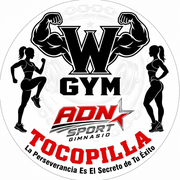
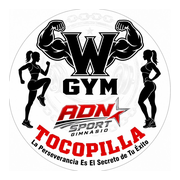
Que el icono no se recorte, y los nombres de las apps en mayusculas
La W negra que salia al instalar era el propio logo: el telefono le recorta
las esquinas al icono y, como el logo llenaba todo el cuadro, ese recorte se
comia el borde donde dice TOCOPILLA y dejaba a la vista solo la W del
centro. Se comprobo simulando el recorte sobre cada icono.

Ahora todos los iconos llevan el logo mas chico y centrado sobre blanco, con
margen suficiente para que el recorte caiga fuera del logo: al 78% los
normales y al 62% los "maskable", que son los que Android recorta seguro.
Se agrega ademas el maskable de 192, que faltaba.

Los archivos y el manifest llevan ?v=3 al final para que el telefono los
baje de nuevo en vez de reusar los que ya tenia guardados, que es la razon
por la que el arreglo anterior no se veia.

tarjeta.html ahora tambien se puede instalar, cosa que antes no. Al bajarla
queda como TARJETA VIRTUAL WGYMADNSPORT, tal como lo pidio la duena, y los
nombres de las otras cuatro apps quedan igual en mayusculas: MESON WGYM,
RUTINA MUJERES, RUTINA HOMBRES y RUTINA GLUTEOS.

Claude-Session: https://claude.ai/code/session_01NWwv9fLaGzq6PxeRAqUp3e

diff --git a/control.html b/control.html
@@ -3,11 +3,11 @@
 <meta name="description" content="Control de acceso y socios de WGYMADNSPORT Tocopilla.">
 <meta name="viewport" content="width=device-width, initial-scale=1, viewport-fit=cover">
 <meta name="theme-color" content="#0A0A0A">
-<link rel="manifest" href="control.webmanifest">
-<link rel="apple-touch-icon" sizes="180x180" href="assets/icono-180.png">
+<link rel="manifest" href="control.webmanifest?v=3">
+<link rel="apple-touch-icon" sizes="180x180" href="assets/icono-180.png?v=3">
 <meta name="apple-mobile-web-app-capable" content="yes">
 <meta name="apple-mobile-web-app-status-bar-style" content="black">
-<meta name="apple-mobile-web-app-title" content="Mesón WGYM">
+<meta name="apple-mobile-web-app-title" content="MESÓN WGYM">
 <style>
 :root{
  --negro:#0A0A0A; --surface:#161616; --surface-2:#1F1F1F; --card:#1c1c1c;

diff --git a/entrenar-gluteos.html b/entrenar-gluteos.html
@@ -8,11 +8,11 @@
 <title>Rutina Enfocada en Glúteos · 5 días · WGYMADNSPORT</title>
 
 <!-- Para que al agregarla a la pantalla de inicio se vea como una app -->
-<link rel="manifest" href="entrenar-gluteos.webmanifest">
-<link rel="apple-touch-icon" sizes="180x180" href="assets/icono-180.png">
+<link rel="manifest" href="entrenar-gluteos.webmanifest?v=3">
+<link rel="apple-touch-icon" sizes="180x180" href="assets/icono-180.png?v=3">
 <meta name="apple-mobile-web-app-capable" content="yes">
 <meta name="apple-mobile-web-app-status-bar-style" content="black">
-<meta name="apple-mobile-web-app-title" content="Rutina Glúteos">
+<meta name="apple-mobile-web-app-title" content="RUTINA GLÚTEOS">
 
 <link rel="preconnect" href="https://fonts.googleapis.com">
 <link rel="preconnect" href="https://fonts.gstatic.com" crossorigin>

diff --git a/entrenar-mujeres.html b/entrenar-mujeres.html
@@ -8,11 +8,11 @@
 <title>Rutina Principiante Mujeres · 5 días · WGYMADNSPORT</title>
 
 <!-- Para que al agregarla a la pantalla de inicio se vea como una app -->
-<link rel="manifest" href="entrenar-mujeres.webmanifest">
-<link rel="apple-touch-icon" sizes="180x180" href="assets/icono-180.png">
+<link rel="manifest" href="entrenar-mujeres.webmanifest?v=3">
+<link rel="apple-touch-icon" sizes="180x180" href="assets/icono-180.png?v=3">
 <meta name="apple-mobile-web-app-capable" content="yes">
 <meta name="apple-mobile-web-app-status-bar-style" content="black">
-<meta name="apple-mobile-web-app-title" content="Rutina Mujeres">
+<meta name="apple-mobile-web-app-title" content="RUTINA MUJERES">
 
 <link rel="preconnect" href="https://fonts.googleapis.com">
 <link rel="preconnect" href="https://fonts.gstatic.com" crossorigin>

diff --git a/entrenar-hombres.html b/entrenar-hombres.html
@@ -8,11 +8,11 @@
 <title>Rutina Intermedio Hombres · 5 días · WGYMADNSPORT</title>
 
 <!-- Para que al agregarla a la pantalla de inicio se vea como una app -->
-<link rel="manifest" href="entrenar-hombres.webmanifest">
-<link rel="apple-touch-icon" sizes="180x180" href="assets/icono-180.png">
+<link rel="manifest" href="entrenar-hombres.webmanifest?v=3">
+<link rel="apple-touch-icon" sizes="180x180" href="assets/icono-180.png?v=3">
 <meta name="apple-mobile-web-app-capable" content="yes">
 <meta name="apple-mobile-web-app-status-bar-style" content="black">
-<meta name="apple-mobile-web-app-title" content="Rutina Hombres">
+<meta name="apple-mobile-web-app-title" content="RUTINA HOMBRES">
 
 <link rel="preconnect" href="https://fonts.googleapis.com">
 <link rel="preconnect" href="https://fonts.gstatic.com" crossorigin>

diff --git a/tarjeta.html b/tarjeta.html
@@ -1,6 +1,13 @@
 <meta charset="utf-8">
 <title>WGYMADNSPORT · Socios y Rutinas</title>  
 <meta name="description" content="Acceso de socios, rutinas de entrenamiento y gestión de WGYMADNSPORT Tocopilla.">  
+<meta name="viewport" content="width=device-width, initial-scale=1, viewport-fit=cover">
+<meta name="theme-color" content="#0A0A0A">
+<link rel="manifest" href="tarjeta.webmanifest?v=3">
+<link rel="apple-touch-icon" sizes="180x180" href="assets/icono-180.png?v=3">
+<meta name="apple-mobile-web-app-capable" content="yes">
+<meta name="apple-mobile-web-app-status-bar-style" content="black">
+<meta name="apple-mobile-web-app-title" content="TARJETA VIRTUAL">
 <style>  
 :root{  
  --negro:#0A0A0A;  

diff --git a/herramientas/base-app.html b/herramientas/base-app.html
@@ -8,8 +8,8 @@
 <title>Mi Entrenamiento · WGYMADNSPORT</title>
 
 <!-- Para que al agregarla a la pantalla de inicio se vea como una app -->
-<link rel="manifest" href="entrenar.webmanifest">
-<link rel="apple-touch-icon" sizes="180x180" href="assets/icono-180.png">
+<link rel="manifest" href="entrenar.webmanifest?v=3">
+<link rel="apple-touch-icon" sizes="180x180" href="assets/icono-180.png?v=3">
 <meta name="apple-mobile-web-app-capable" content="yes">
 <meta name="apple-mobile-web-app-status-bar-style" content="black">
 <meta name="apple-mobile-web-app-title" content="Mi Entrenamiento">

diff --git a/entrenar.html b/entrenar.html
@@ -6,7 +6,7 @@
 <meta name="theme-color" content="#0A0A0A">
 <meta name="robots" content="noindex">
 <title>Entra con tu QR · WGYMADNSPORT</title>
-<link rel="apple-touch-icon" sizes="180x180" href="assets/icono-180.png">
+<link rel="apple-touch-icon" sizes="180x180" href="assets/icono-180.png?v=3">
 <link rel="preconnect" href="https://fonts.googleapis.com">
 <link rel="preconnect" href="https://fonts.gstatic.com" crossorigin>
 <link rel="stylesheet" href="https://fonts.googleapis.com/css2?family=Anton&family=Barlow+Condensed:wght@600;700&family=Barlow:wght@400;600;700&display=swap">

diff --git a/herramientas/generar-apps-rutina.py b/herramientas/generar-apps-rutina.py
@@ -262,10 +262,10 @@ def una_app(clave, cfg, base, socios):
     # ── nombre de la app en la pestaña, en el icono y en el encabezado
     uno("<title>Mi Entrenamiento · WGYMADNSPORT</title>",
         "<title>%s · WGYMADNSPORT</title>" % cfg["titulo"])
-    uno('<link rel="manifest" href="entrenar.webmanifest">',
-        '<link rel="manifest" href="entrenar-%s.webmanifest">' % clave)
+    uno('<link rel="manifest" href="entrenar.webmanifest?v=3">',
+        '<link rel="manifest" href="entrenar-%s.webmanifest?v=3">' % clave)
     uno('<meta name="apple-mobile-web-app-title" content="Mi Entrenamiento">',
-        '<meta name="apple-mobile-web-app-title" content="%s">' % cfg["corto"])
+        '<meta name="apple-mobile-web-app-title" content="%s">' % cfg["corto"].upper())
     uno("<h2>MI <span>ENTRENAMIENTO</span></h2>",
         "<h2>%s <span>%s</span></h2>" % (cfg["marca1"], cfg["marca2"]))
     uno("<h1>MI <span>ENTRENAMIENTO</span></h1>",
@@ -362,8 +362,10 @@ def una_app(clave, cfg, base, socios):
 
 def manifest(clave, cfg):
     return json.dumps({
-        "name": cfg["titulo"] + " · WGYMADNSPORT",
-        "short_name": cfg["corto"],
+        # En mayusculas porque asi lo pidio la duena: es como se lee debajo
+        # del icono en la pantalla de inicio del telefono.
+        "name": (cfg["titulo"].split(" · ")[0] + " · WGYMADNSPORT").upper(),
+        "short_name": cfg["corto"].upper(),
         "description": cfg["titulo"] + " de WGYMADNSPORT Tocopilla.",
         "lang": "es-CL",
         "start_url": "entrenar-%s.html" % clave,
@@ -376,17 +378,20 @@ def manifest(clave, cfg):
         # telefono compara, y si no calza descarta el icono y dibuja una
         # letra en su lugar. Antes apuntaban al logo, que mide 1092, y por
         # eso al instalar la app salia una W negra en vez del logo.
+        # Los iconos llevan margen a proposito: el telefono les recorta las
+        # esquinas y sin margen ese recorte se come el borde del logo, que es
+        # justo donde dice TOCOPILLA. El ?v= al final obliga al telefono a
+        # bajarlos de nuevo en vez de reusar los que ya tenia guardados.
         "icons": [
-            {"src": "assets/icono-192.png", "sizes": "192x192",
+            {"src": "assets/icono-192.png?v=3", "sizes": "192x192",
              "type": "image/png", "purpose": "any"},
-            {"src": "assets/icono-512.png", "sizes": "512x512",
+            {"src": "assets/icono-512.png?v=3", "sizes": "512x512",
              "type": "image/png", "purpose": "any"},
-            # Android le recorta las esquinas al icono; el "maskable" trae el
-            # logo mas chico y centrado para que ese recorte no lo muerda.
-            {"src": "assets/icono-maskable-512.png", "sizes": "512x512",
+            {"src": "assets/icono-maskable-192.png?v=3", "sizes": "192x192",
              "type": "image/png", "purpose": "maskable"},
-        ],
-    }, ensure_ascii=False, indent=2) + "\n"
+            {"src": "assets/icono-maskable-512.png?v=3", "sizes": "512x512",
+             "type": "image/png", "purpose": "maskable"},
+        ],    }, ensure_ascii=False, indent=2) + "\n"
 
 
 def main():
